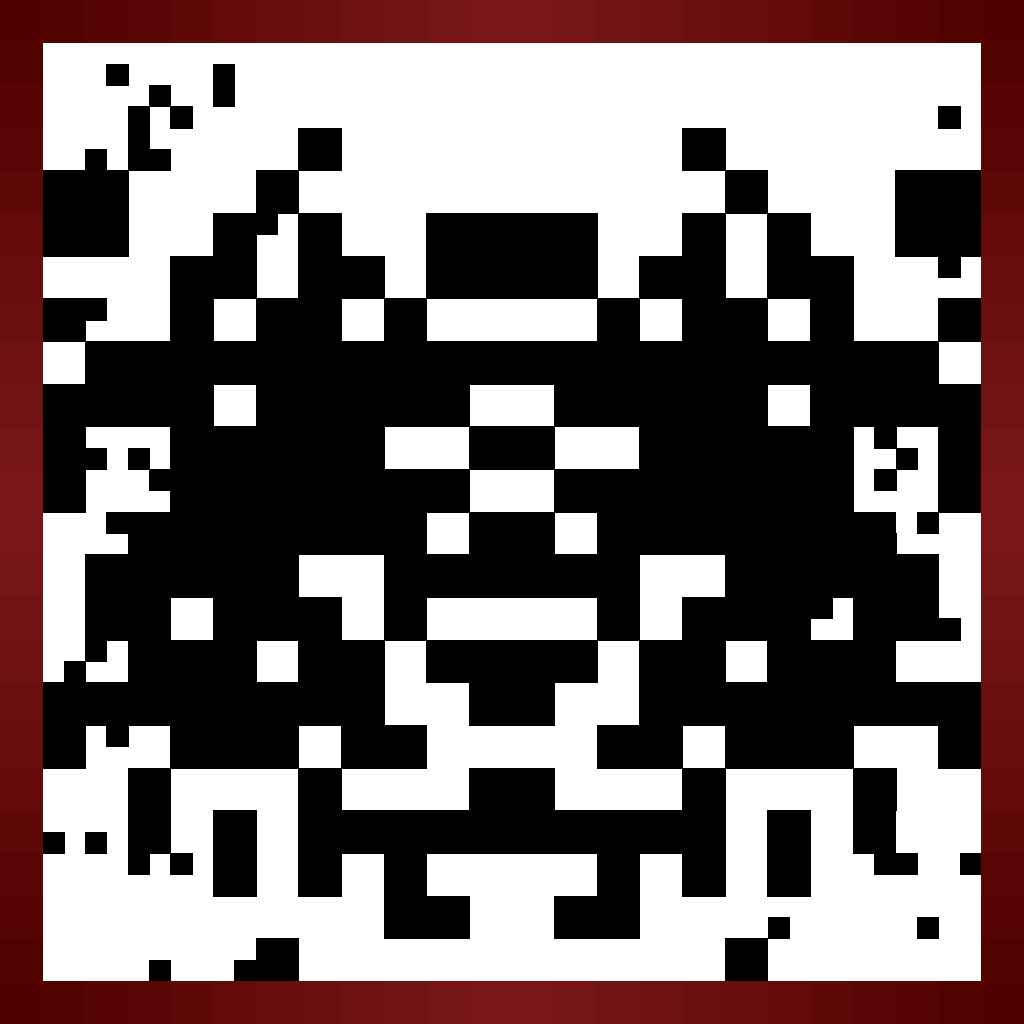
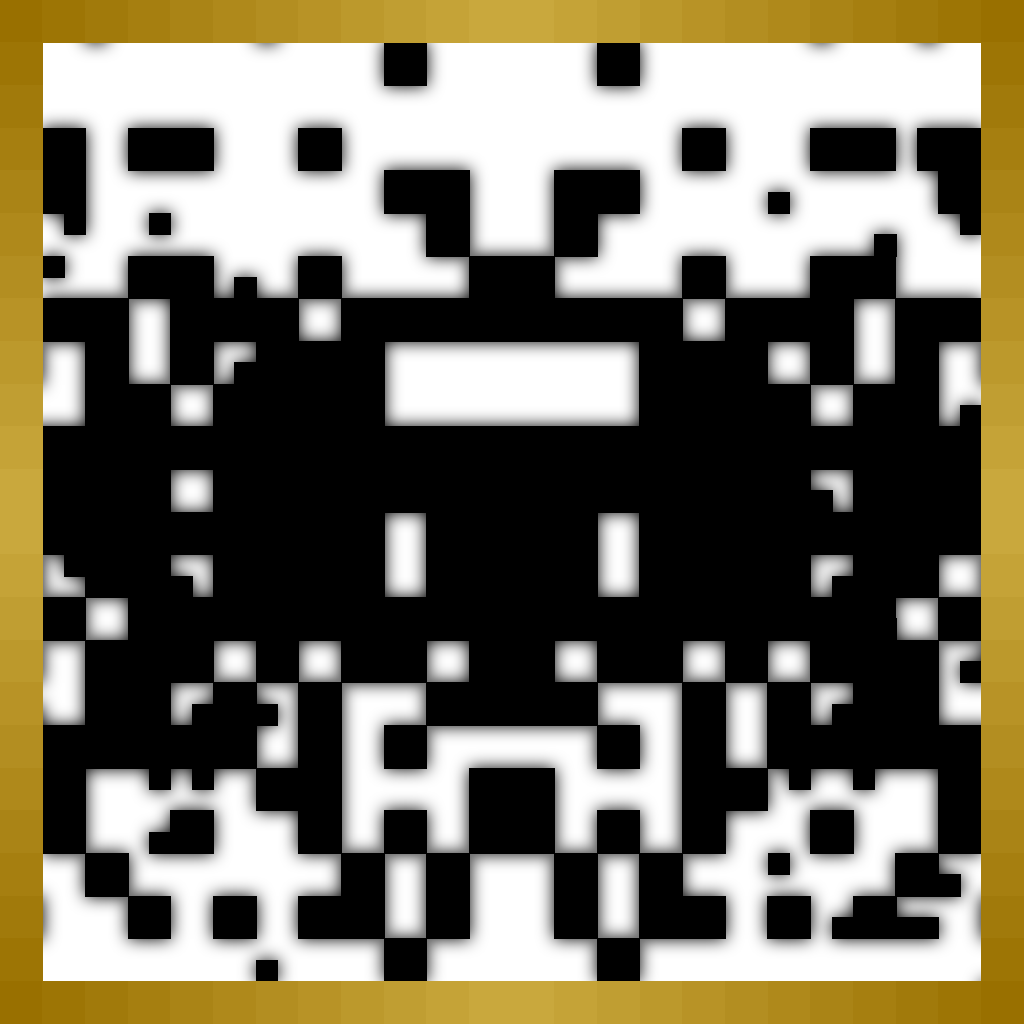
✨ Add ink-bleed layer and gold border trait

diff --git a/inkblot.py b/inkblot.py
@@ -1,7 +1,5 @@
 import hashlib, random, math
-from PIL import Image, ImageDraw
-
-address = "0x7e2F9dd040cF7B41a1AF9e4A24A0EDB04093dDa1"
+from PIL import Image, ImageDraw, ImageFilter
 
 # Finite color palettes (R, G, B)
 PALETTES = [
@@ -19,102 +17,97 @@ def generate_pixel_inkblot(address: str, size=1024, grid=24, fill_prob=1.1) -> I
     rnd = random.Random(seed)
 
     cell_size = size / grid
-    img = Image.new("RGB", (size, size), color=(255, 255, 255))
-    draw = ImageDraw.Draw(img)
 
+    # Step 1: draw inkblot with transparent background
+    ink_layer = Image.new("RGBA", (size, size), (0, 0, 0, 0))
+    draw = ImageDraw.Draw(ink_layer)
     center_x, center_y = grid // 4, grid // 2
 
-    for dx in range(-grid//4, grid//4):
-        for dy in range(-grid//2, grid//2):
+    for dx in range(-grid // 4, grid // 4):
+        for dy in range(-grid // 2, grid // 2):
             dist = (dx**2 + dy**2)**0.5
-            prob = fill_prob * (1.0 - dist / (grid/2))
+            prob = fill_prob * (1.0 - dist / (grid / 2))
             if rnd.random() < prob:
                 gx = center_x + dx
                 gy = center_y + dy
-
                 x0 = int(gx * cell_size)
                 y0 = int(gy * cell_size)
                 x1 = int((gx + 1) * cell_size)
                 y1 = int((gy + 1) * cell_size)
-                draw.rectangle([x0, y0, x1, y1], fill=0)
+                draw.rectangle([x0, y0, x1, y1], fill=(0, 0, 0, 255))
 
-    # Mirror left to right
-    left = img.crop((0, 0, size//2, size))
-    img.paste(left.transpose(Image.FLIP_LEFT_RIGHT), (size//2, 0))
+    # Step 2: mirror
+    left = ink_layer.crop((0, 0, size // 2, size))
+    ink_layer.paste(left.transpose(Image.FLIP_LEFT_RIGHT), (size // 2, 0))
 
-    # Conditional splatter
+    # Step 3: conditional splatter
     hex_part = address.lower().replace("0x", "")
     zero_count = hex_part.count("0")
 
     if zero_count > 1:
         count = int(((zero_count - 1) / 9) * 400)
-        add_grid_splatter(img, draw, seed, grid_size=grid, scale=2, count=count)
+        draw = ImageDraw.Draw(ink_layer)
+        add_grid_splatter(ink_layer, draw, seed, grid_size=grid, scale=2, count=count)
 
-    # Add colored gradient border (always corner-based)
-    add_grid_border_gradient_colored(img, grid_size=grid, address=address)
+    # Step 4: create white background
+    base = Image.new("RGBA", ink_layer.size, (255, 255, 255, 255))
 
-    return img
+    # Step 5: create and add ink bleed underneath
+    bleed = create_ink_bleed_layer_blur(ink_layer, blur_radius=8, alpha=180)
+    combined = Image.alpha_composite(base, bleed)
+    combined = Image.alpha_composite(combined, ink_layer)
+
+    # Step 6: add gradient border on top
+    final = combined.convert("RGB")
+    add_grid_border_gradient_colored(final, grid_size=grid, address=address)
+
+    return final
+
+
+def create_ink_bleed_layer_blur(ink_img: Image.Image, blur_radius=6, alpha=180) -> Image.Image:
+    """
+    Create a strong, soft black blur underneath the inkblot to simulate ink bleed.
+    """
+    # Extract the alpha channel from the ink layer
+    alpha_mask = ink_img.getchannel("A")
+
+    # Create a fully black image with uniform alpha applied via the mask
+    black = Image.new("RGBA", ink_img.size, (0, 0, 0, alpha))
+    black.putalpha(alpha_mask)
+
+    # Apply Gaussian blur to simulate bleed
+    return black.filter(ImageFilter.GaussianBlur(blur_radius))
 
 
 def add_grid_splatter(img, draw, seed, grid_size, scale, count):
     rnd = random.Random(seed + 1337)
     w, h = img.size
-
     splat_grid = grid_size * scale
     cell_size = w / splat_grid
 
     for _ in range(count):
         gx = rnd.randint(0, splat_grid - 1)
         gy = rnd.randint(0, splat_grid - 1)
-
         if abs(gx - splat_grid // 2) < splat_grid // 4:
             continue
-
         x0 = int(gx * cell_size)
         y0 = int(gy * cell_size)
         x1 = int((gx + 1) * cell_size)
         y1 = int((gy + 1) * cell_size)
-        draw.rectangle([x0, y0, x1, y1], fill=0)
+        draw.rectangle([x0, y0, x1, y1], fill=(0, 0, 0, 255))
 
 
 def get_border_palette(address: str):
     hex_addr = address.lower().replace("0x", "")
+    if hex_addr.startswith("420") or hex_addr.endswith("420") or \
+       hex_addr.startswith("69") or hex_addr.endswith("69"):
+        # Three-stage gradient: outer → inner → center
+        return [(153, 112, 0), (255, 230, 128), (153, 112, 0)]
     h = hashlib.sha256(hex_addr.encode()).hexdigest()
     palette_index = int(h[0:2], 16) % len(PALETTES)
     return PALETTES[palette_index]
 
 
-def lerp_color(c1, c2, t):
-    return tuple(int(c1[i] + (c2[i] - c1[i]) * t) for i in range(3))
-
-
-def add_grid_border_gradient_colored(img, grid_size, address):
-    draw = ImageDraw.Draw(img)
-    w, h = img.size
-    cell_size = w / grid_size
-
-    c0, c1 = get_border_palette(address)
-
-    for gx in range(grid_size):
-        for gy in range(grid_size):
-            is_edge = gx == 0 or gx == grid_size - 1 or gy == 0 or gy == grid_size - 1
-            if not is_edge:
-                continue
-
-            # Always use corner-based gradient
-            dist_x = min(gx, grid_size - 1 - gx)
-            dist_y = min(gy, grid_size - 1 - gy)
-            progress = (dist_x + dist_y) / (2 * (grid_size - 1))
-            progress = max(0, min(1, progress))
-
-            color = lerp_color(c0, c1, progress)
-
-            x0 = int(gx * cell_size)
-            y0 = int(gy * cell_size)
-            x1 = int((gx + 1) * cell_size)
-            y1 = int((gy + 1) * cell_size)
-            draw.rectangle([x0, y0, x1, y1], fill=color)
-            
 def get_palette_metadata(address: str):
     hex_addr = address.lower().replace("0x", "")
     h = hashlib.sha256(hex_addr.encode()).hexdigest()
@@ -126,10 +119,52 @@ def get_palette_metadata(address: str):
     }
 
 
+def lerp_color(c1, c2, t):
+    return tuple(int(c1[i] + (c2[i] - c1[i]) * t) for i in range(3))
+
+
+def add_grid_border_gradient_colored(img, grid_size, address):
+    draw = ImageDraw.Draw(img)
+    w, h = img.size
+    cell_size = w / grid_size
+
+    palette = get_border_palette(address)
+    if len(palette) == 2:
+        c0, c1 = palette
+        def get_color(progress):
+            return lerp_color(c0, c1, progress)
+    elif len(palette) == 3:
+        c0, c1, c2 = palette
+        def get_color(progress):
+            # progress: 0 → 0.5 → 1 (c0 → c1 → c2)
+            if progress < 0.5:
+                return lerp_color(c0, c1, progress * 2)
+            else:
+                return lerp_color(c1, c2, (progress - 0.5) * 2)
+    else:
+        raise ValueError("Invalid palette")
+
+    for gx in range(grid_size):
+        for gy in range(grid_size):
+            is_edge = gx == 0 or gx == grid_size - 1 or gy == 0 or gy == grid_size - 1
+            if not is_edge:
+                continue
+            dist_x = min(gx, grid_size - 1 - gx)
+            dist_y = min(gy, grid_size - 1 - gy)
+            progress = (dist_x + dist_y) / (2 * (grid_size - 1))
+            progress = max(0, min(1, progress))
+            color = get_color(progress)
+            x0 = int(gx * cell_size)
+            y0 = int(gy * cell_size)
+            x1 = int((gx + 1) * cell_size)
+            y1 = int((gy + 1) * cell_size)
+            draw.rectangle([x0, y0, x1, y1], fill=color)
+
 
 # Example usage
 if __name__ == "__main__":
+    address = "0xddeF9dd040cF7B41a1AF9e4A24A0EDB04093dD69"
     img = generate_pixel_inkblot(address)
     metadata = get_palette_metadata(address)
-    print(metadata)  # pass this to service
+    print(metadata)
     img.save("inkblot.png")
